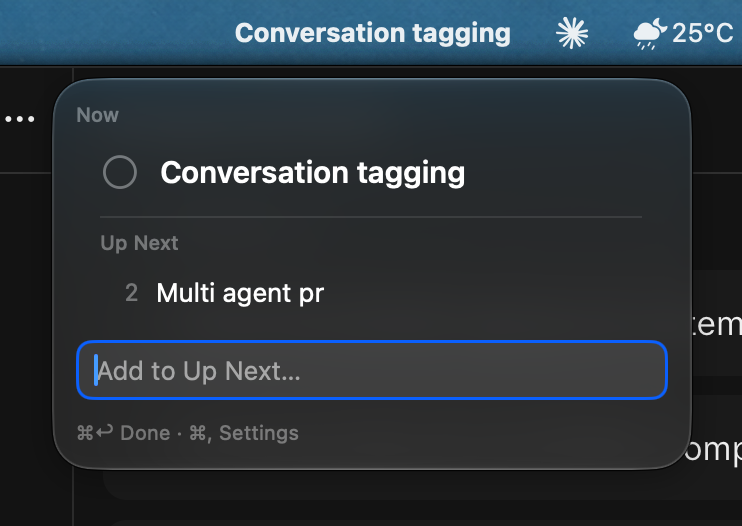
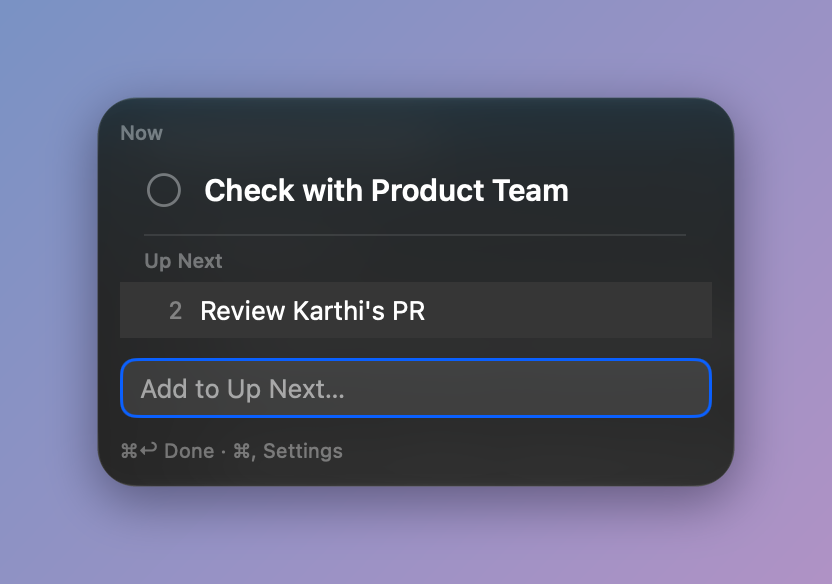
README: cleaner panel screenshot on a plain background

diff --git a/README.md b/README.md
@@ -2,7 +2,7 @@
 
 A menu-bar list that shows what you are on now, and keeps the rest in order behind it.
 
-<img src="docs/images/panel.png" alt="The Wedge panel open under its menu-bar item, showing a Now item, one Up Next item and the add field" width="420">
+<img src="docs/images/panel.png" alt="The Wedge panel, showing a Now item, one Up Next item and the add field" width="416">
 
 The menu bar shows **Now**, the top item. Everything below it is **Up Next**, in the order you put it. When the Now item is finished, press Done: the next one rises into place.
 
